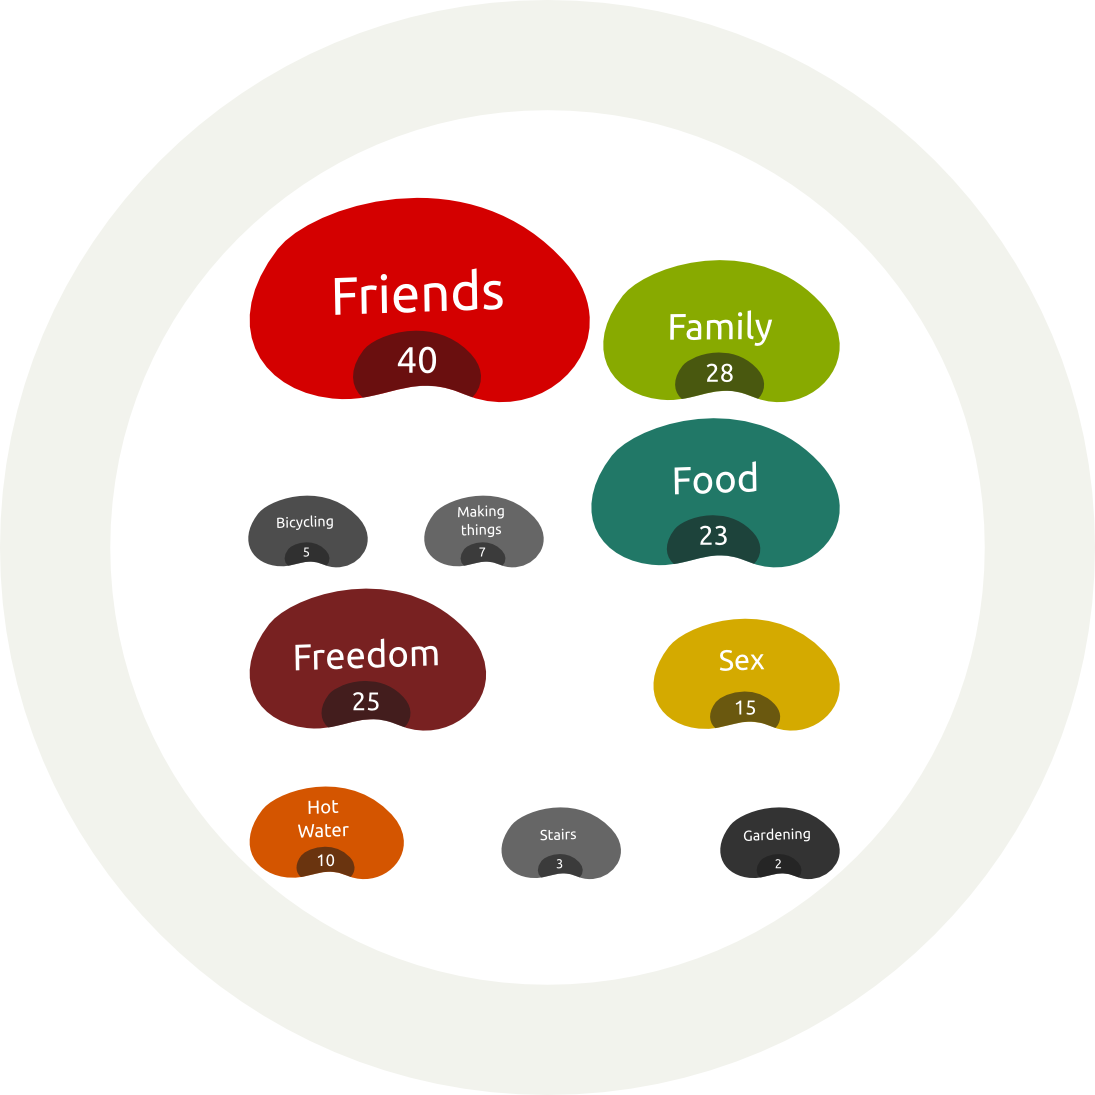
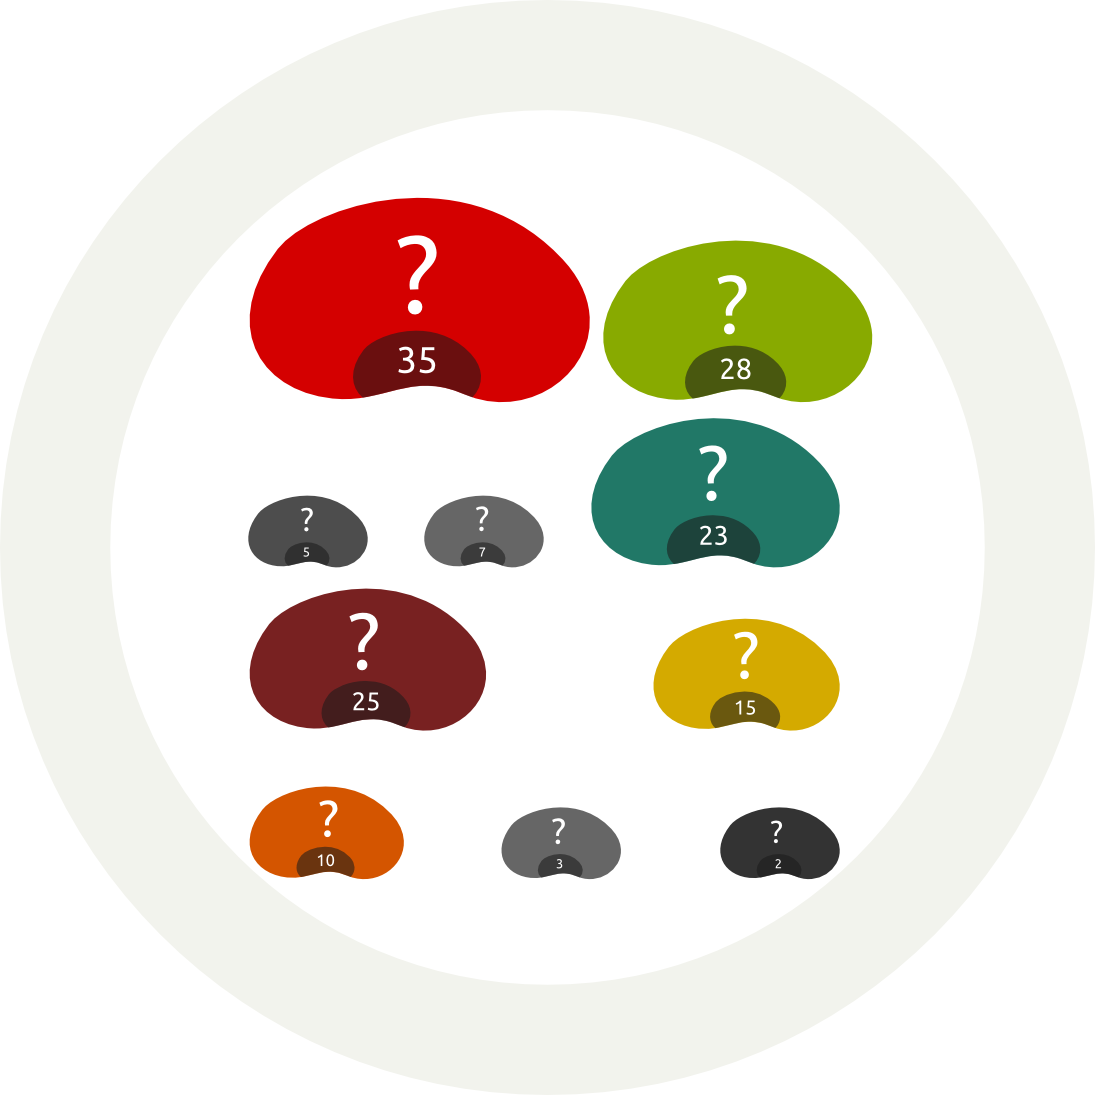
adding new placeholder image with no words

diff --git a/public/stylesheets/style.css b/public/stylesheets/style.css
@@ -252,7 +252,7 @@ a.button, button.button {
 	width:100%;
 	height: 0;
     padding: 100% 0 0 0;
-	background-image:url(/images/beanbag-holder-image-fs8.png);
+	background-image:url(/images/beanbag-holder-image.png);
 	background-size:100%;
 }
 
